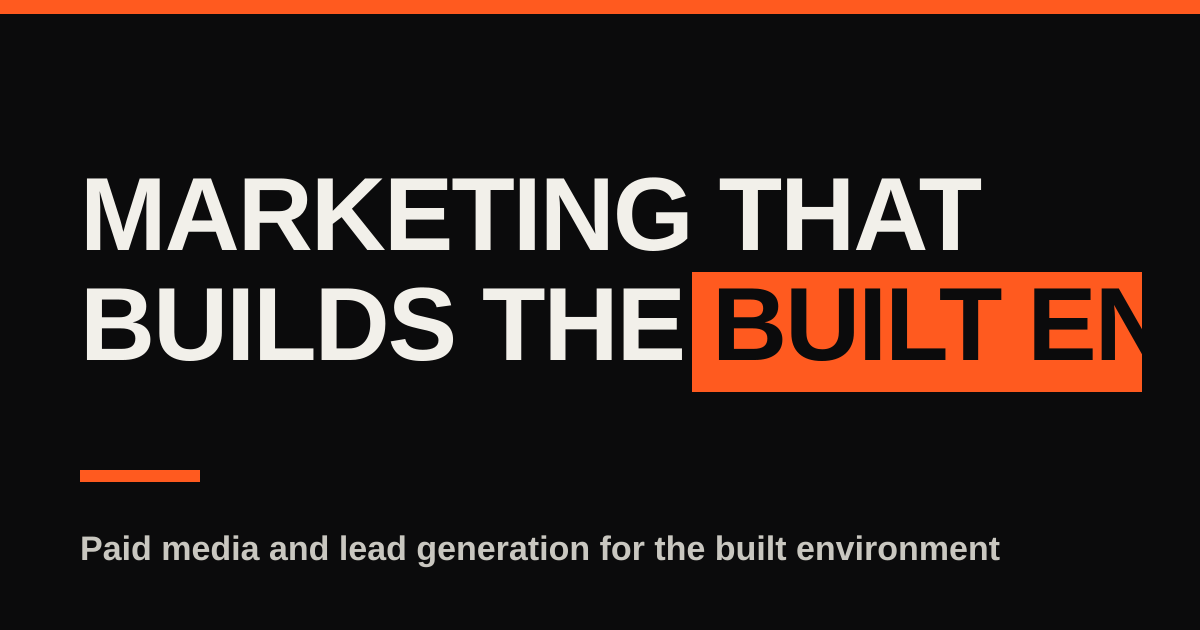
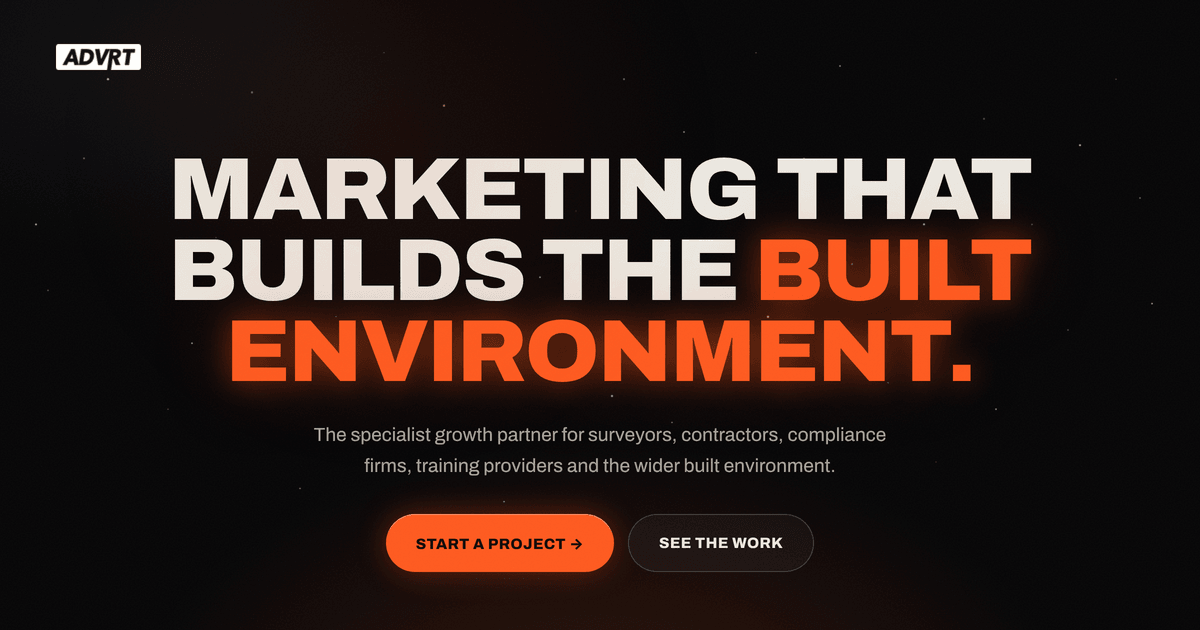
Add llms.txt and llms-full.txt, generate robots.txt from SITE_URL
robots.txt was a static file in public/ with the netlify.app origin written
into its Sitemap line, which would have pointed crawlers at the wrong host
once a custom domain is pointed here. It is generated now, and disallows
/thank-you, which carries noindex.

llms.txt maps the site for language models (llmstxt.org): the sectors, the
ten articles, the policies and the feeds. llms-full.txt carries the prose —
every article in full plus the substance of each sector page, with the
articles' in-body CTA stripped and their stat rows flattened to a list.

Also adds scripts/og-image.mjs, which rebuilds the share card from the live
hero so it can never drift from the site. The dated booking line is left out
of the card on purpose: a static image would keep claiming a quarter long
after it had passed.

Claude-Session: https://claude.ai/code/session_01FZArBFoi2RFBjHiw77v6Jy

diff --git a/src/pages/llms-full.txt.ts b/src/pages/llms-full.txt.ts
@@ -1,0 +1,122 @@
+import { getCollection } from 'astro:content';
+import type { APIContext } from 'astro';
+import { site } from '../data/site';
+import { sectors } from '../data/sectors';
+
+/**
+ * llms-full.txt — the prose behind llms.txt: every article in full, plus the
+ * substance of each sector page. Markdown is passed through as written; the
+ * few raw HTML blocks in the articles are stripped back to their text.
+ */
+function plain(markdown: string) {
+  return markdown
+    // The in-body CTA is site furniture, not article content.
+    .replace(/<div class="ctarow">[\s\S]*?<\/div>\s*<\/div>/g, '')
+    .replace(/<div class="ctarow">[\s\S]*?<\/div>/g, '')
+    // Keep the figures from the stat rows, as a plain list.
+    .replace(/<div class="stat"><b>(.*?)<\/b><span>(.*?)<\/span><\/div>/g, '- $1 — $2')
+    .replace(/<\/?div[^>]*>/g, '')
+    .replace(/<h3[^>]*>(.*?)<\/h3>/g, '### $1')
+    .replace(/<a class="btn"[^>]*>[\s\S]*?<\/a>/g, '')
+    .replace(/<[^>]+>/g, '')
+    .replace(/&amp;/g, '&')
+    .replace(/\n{3,}/g, '\n\n')
+    .trim();
+}
+
+export async function GET({ site: base }: APIContext) {
+  const origin = base!.href.replace(/\/$/, '');
+  const posts = (await getCollection('insights', ({ data }) => !data.draft)).sort(
+    (a, b) => b.data.date.valueOf() - a.data.date.valueOf(),
+  );
+
+  const out: string[] = [
+    `# ${site.name} — full text`,
+    '',
+    `> ${site.description}`,
+    '',
+    `Source: ${origin}. ${site.legalName}, registered in England and Wales.`,
+    `Contact: ${site.email}, ${site.phone}.`,
+    '',
+    '---',
+    '',
+    '# Sectors',
+    '',
+  ];
+
+  for (const s of sectors) {
+    out.push(
+      `## ${s.short}`,
+      '',
+      `URL: ${origin}/${s.slug}`,
+      '',
+      `${s.h1a} ${s.h1b}`,
+      '',
+      s.lede,
+      '',
+      `### ${s.p2a} ${s.p2b}`,
+      '',
+      s.pLede,
+      '',
+    );
+
+    if (s.disciplines) {
+      out.push(`### ${s.disciplines.head}`, '', s.disciplines.lede, '');
+      for (const d of s.disciplines.items) {
+        out.push(
+          `- ${d.name}. Who buys it: ${d.who} What triggers it: ${d.trigger} ` +
+            `How ADVRT plays it: ${d.play}`,
+        );
+      }
+      out.push('');
+    }
+
+    out.push(`### ${s.buildHead1} ${s.buildHead2}`, '', s.buildLede, '');
+    for (const t of s.tabs) {
+      out.push(`#### ${t.no} · ${t.name} — ${t.head}`, '', t.body, '');
+      for (const pt of t.points) out.push(`- ${pt}`);
+      out.push('');
+    }
+
+    if (s.stages) {
+      out.push('### How it lands', '');
+      for (const st of s.stages) out.push(`- Stage ${st.no}, ${st.name}: ${st.desc}`);
+      out.push('');
+    }
+
+    out.push(`### ${s.lab.head1} ${s.lab.head2}`, '', s.lab.lede, '');
+    if (s.lab.kind === 'cards') {
+      for (const c of s.lab.cards) out.push(`- ${c.h}: ${c.b}`);
+    } else {
+      for (const st of s.lab.stats) out.push(`- ${st.n} — ${st.k}`);
+    }
+    out.push('', `### ${s.faqHead}`, '');
+    for (const f of s.faqs) out.push(`**${f.q}**`, '', f.a, '');
+    out.push('---', '');
+  }
+
+  out.push('# Insights', '');
+
+  for (const p of posts) {
+    out.push(
+      `## ${p.data.title}`,
+      '',
+      `URL: ${origin}/insights/${p.id}`,
+      `Published: ${p.data.date.toISOString().slice(0, 10)} · ${p.data.mins} min read · ${p.data.topic}`,
+      `Author: ${p.data.author}, ${p.data.authorRole}`,
+      '',
+      p.data.excerpt,
+      '',
+    );
+    if (p.data.takeaways.length) {
+      out.push('### Key takeaways', '');
+      for (const t of p.data.takeaways) out.push(`- ${t}`);
+      out.push('');
+    }
+    out.push(plain(p.body ?? ''), '', '---', '');
+  }
+
+  return new Response(out.join('\n'), {
+    headers: { 'content-type': 'text/plain; charset=utf-8' },
+  });
+}

diff --git a/src/pages/llms.txt.ts b/src/pages/llms.txt.ts
@@ -1,0 +1,68 @@
+import { getCollection } from 'astro:content';
+import type { APIContext } from 'astro';
+import { site } from '../data/site';
+import { sectors } from '../data/sectors';
+import { policies } from '../data/policies';
+
+/**
+ * llms.txt — a map of the site in plain text, for language models that are
+ * asked about ADVRT or about lead generation in the built environment.
+ * Convention: llmstxt.org. The companion llms-full.txt carries the prose.
+ */
+export async function GET({ site: base }: APIContext) {
+  const origin = base!.href.replace(/\/$/, '');
+  const u = (path: string) => `${origin}${path}`;
+
+  const posts = (await getCollection('insights', ({ data }) => !data.draft)).sort(
+    (a, b) => b.data.date.valueOf() - a.data.date.valueOf(),
+  );
+
+  const lines = [
+    `# ${site.name}`,
+    '',
+    `> ${site.description}`,
+    '',
+    `${site.legalName}, registered in England and Wales. Registered office: ` +
+      `${site.address.line1}, ${site.address.line2}, ${site.address.city}, ` +
+      `${site.address.postcode}. Contact: ${site.email}, ${site.phone}.`,
+    '',
+    'ADVRT builds lead generation systems for firms in the built environment:',
+    'landing pages, paid search campaigns, conversion tracking and enquiry',
+    'qualification, built together and handed over so the client owns the whole',
+    'thing outright. Campaigns are proven first on ADVRT’s own lead generation',
+    'brands before a client budget is involved. Enquiries are exclusive to the',
+    'firm that paid for them and are never shared with competitors.',
+    '',
+    '## Sectors',
+    '',
+    ...sectors.map((s) => `- [${s.short}](${u('/' + s.slug)}): ${s.metaDescription}`),
+    '',
+    '## Start here',
+    '',
+    `- [Home](${u('/')}): what ADVRT does, the work it has shipped and how a build runs.`,
+    `- [Start a project](${u('/start-a-project')}): the project brief. Five questions, then a discovery call.`,
+    `- [Contact](${u('/contact')}): general enquiries, partnerships, press and client support.`,
+    `- [Insights](${u('/insights')}): field notes on lead generation in the built environment.`,
+    '',
+    '## Insights',
+    '',
+    ...posts.map(
+      (p) => `- [${p.data.title}](${u('/insights/' + p.id)}): ${p.data.excerpt}`,
+    ),
+    '',
+    '## Legal',
+    '',
+    ...policies.map((p) => `- [${p.name}](${u('/' + p.slug)}): ${p.lede}`),
+    '',
+    '## Optional',
+    '',
+    `- [Full text](${u('/llms-full.txt')}): every article and the key page copy in one file.`,
+    `- [RSS](${u('/insights/rss.xml')}): the insights feed.`,
+    `- [Sitemap](${u('/sitemap-index.xml')}): every indexable URL.`,
+    '',
+  ];
+
+  return new Response(lines.join('\n'), {
+    headers: { 'content-type': 'text/plain; charset=utf-8' },
+  });
+}

diff --git a/src/pages/robots.txt.ts b/src/pages/robots.txt.ts
@@ -1,0 +1,29 @@
+import type { APIContext } from 'astro';
+
+/**
+ * Generated rather than a static file in public/, so the Sitemap line follows
+ * SITE_URL when a custom domain is pointed at the site instead of silently
+ * pointing crawlers back at the netlify.app origin.
+ */
+export function GET({ site }: APIContext) {
+  const origin = site!.href.replace(/\/$/, '');
+
+  const body = [
+    'User-agent: *',
+    'Allow: /',
+    '',
+    '# /thank-you is the landing page for a form post and carries noindex.',
+    'Disallow: /thank-you',
+    '',
+    `Sitemap: ${origin}/sitemap-index.xml`,
+    '',
+    '# Plain-text summaries of this site, for language models.',
+    `# ${origin}/llms.txt`,
+    `# ${origin}/llms-full.txt`,
+    '',
+  ].join('\n');
+
+  return new Response(body, {
+    headers: { 'content-type': 'text/plain; charset=utf-8' },
+  });
+}
